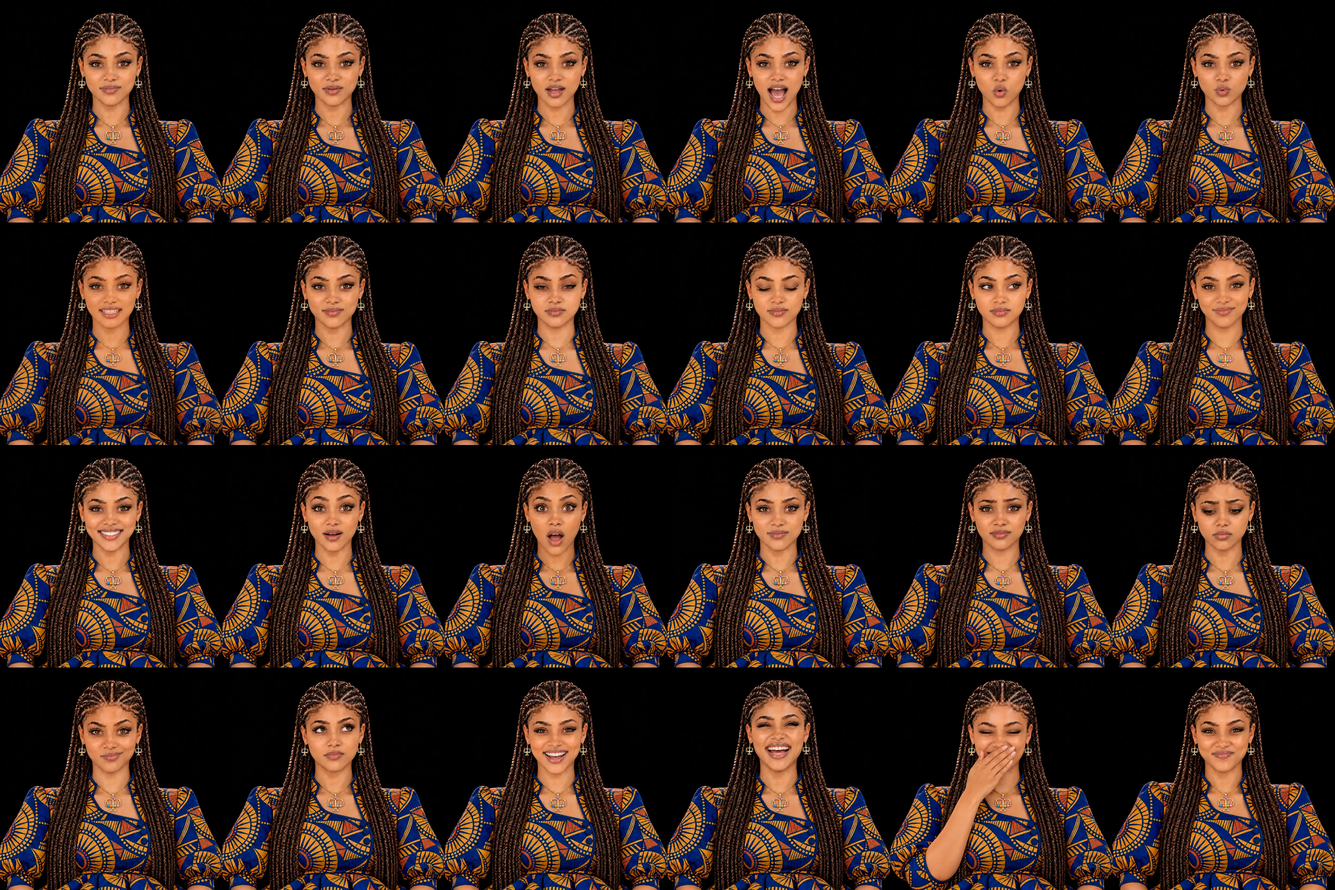
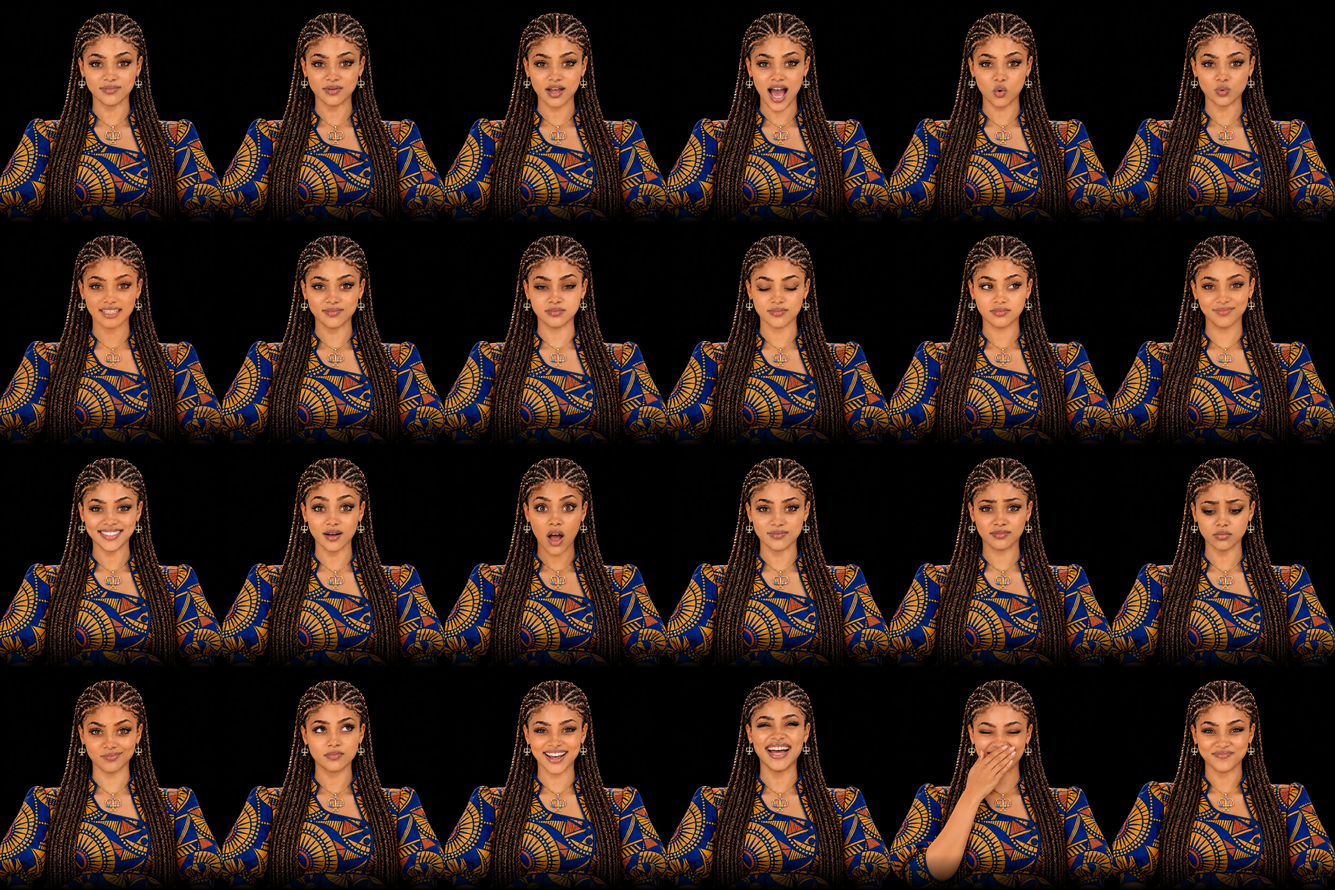
fix(tenue): désynchronisation de la respiration + bord non homogène
Deux défauts signalés par Lamine le 25 septembre 2026, avec capture d'écran :

1. « Parfois l'image saute pendant le silence » — .avatar-avant (l'ancien
   visage, qui s'efface pendant le fondu) relançait sa PROPRE animation de
   respiration à chaque changement, indépendante de celle, déjà en cours,
   du visage qui le remplace. Les deux couches se retrouvaient à des
   tailles et positions différentes pendant les 220 ms du fondu → un saut
   visible. Ça ne se voyait qu'au repos : pendant la parole, les
   changements de bouche sont instantanés, sans fondu qui puisse révéler
   le désaccord. Fixé : .avatar-avant ne respire plus, elle s'efface figée
   au repos du cycle (translateY(0) scale(var(--avatar-scale))).

2. « La fin de l'image n'est pas homogène avec le noir du téléphone » —
   vérifié sur les 24 cases du visage (bia-24-wax.webp) : AUCUNE n'a de
   marge noire en bas, la robe wax est coupée pile au bord du cadre. Le
   même écart existe sur les 72 autres images (gestes, mains, mains2).
   Fixé en recomposant les 4 planches wax avec un fondu vers le noir sur
   les derniers 16 % de hauteur de chaque case (vérifié : couleur pleine
   à y=700, quasi noir à y=825/832) — le bord se fond maintenant avec le
   fond #000 de .bia-presence au lieu de s'arrêter net.

Claude-Session: https://claude.ai/code/session_01HzeJCY57vFv38jsp8AJGw1

diff --git a/app/globals.css b/app/globals.css
@@ -106,7 +106,19 @@ button { font: inherit; touch-action: manipulation; }
 .avatar-avant {
   z-index: 1;
   pointer-events: none;
-  animation: breathe 4.8s ease-in-out infinite, fondu-avant .22s ease-out forwards;
+  /* 25 septembre 2026, Lamine : « l'image saute pendant le silence ». Cause :
+     cette couche (l'ancien visage, qui s'efface) respirait sur SON PROPRE
+     cycle de 4,8 s, indépendant de celui du visage courant en dessous — au
+     moment du fondu, les deux n'étaient presque jamais à la même taille ni
+     à la même position, d'où le petit saut. Pendant la parole ça ne se
+     voyait pas (les bouches sautent sans fondu, voir plus haut) ; au repos,
+     rien d'autre ne bouge pour le masquer.
+     Fixée au repos de la respiration (celui du départ/retour du cycle) au
+     lieu de relancer sa propre animation : elle s'efface sans plus jouer sa
+     propre respiration, contre celle, toujours en cours, du visage qui la
+     remplace. */
+  transform: translateY(0) scale(var(--avatar-scale));
+  animation: fondu-avant .22s ease-out forwards;
 }
 @keyframes fondu-avant {
   from { opacity: 1; }
